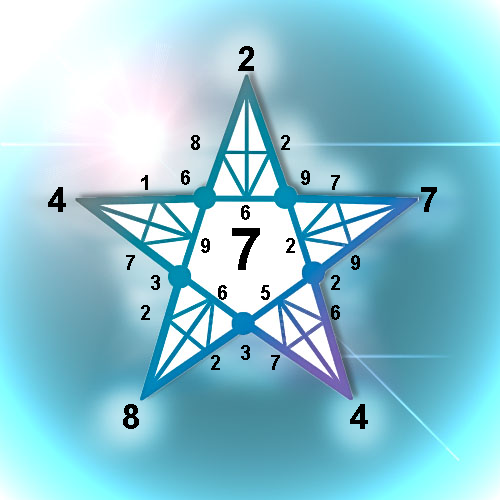
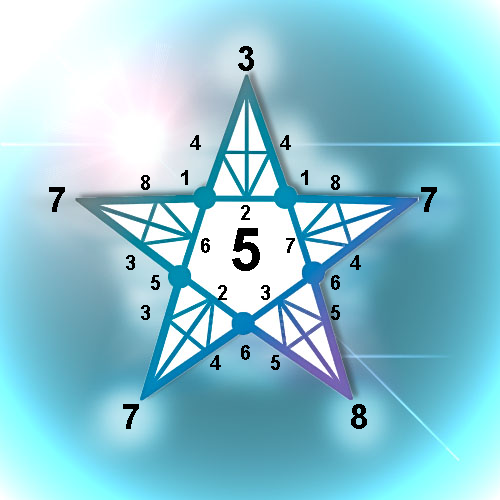
first commit

diff --git a/src/main/java/org/example/Main.java b/src/main/java/org/example/Main.java
@@ -35,14 +35,14 @@ public class Main {
 ////                }
 //
 //                System.out.println("01.03.87");
-                //    System.out.println(mes);
+                    System.out.println(mes);
 
                 try {
 
                     //   Payment.Pay(bot,mes.message().from().id());
                     if (mes.callbackQuery() != null) _callbackQuery(mes, bot);
                     if (mes.message() != null) _massege(mes, bot);
-                } catch (NullPointerException e) {
+                } catch (Exception e) {
                     e.printStackTrace();
                 }
             }
@@ -105,39 +105,38 @@ public class Main {
             bot.execute(new SendMessage(chatId, Text_puttern.date_of_birth).parseMode(ParseMode.HTML));
         } else {
 
-
             if (mes.callbackQuery().data().equals("callback_data1")) {
-                _massege_arkan(chatId,bot,22,13,11,1,92,75,71);
-                _massege_arkan(chatId,bot,9,13,11,1,92,75,71);
+                     _massege_arkan(chatId,bot,"Личность",22,13,11,1,92,75,71);
+                     _massege_arkan(chatId,bot,"Личность",9,13,11,1,92,75,71);
             }
             if (mes.callbackQuery().data().equals("callback_data2"))
                // bot.execute(new SendMessage(chatId, "Сфера духовности").parseMode(ParseMode.HTML));
             {
-                _massege_arkan(chatId, bot, 22, 11, 12, 2, 91, 72, 73);
-                _massege_arkan(chatId, bot, 9, 11, 12, 2, 91, 72, 73);
+                _massege_arkan(chatId, bot,"Духовность", 22, 11, 12, 2, 91, 72, 73);
+                _massege_arkan(chatId, bot,"Духовность", 9, 11, 12, 2, 91, 72, 73);
             }
               //   _massege_arkan(chatId,bot,10,11,12,2,91,72,73);
             if (mes.callbackQuery().data().equals("callback_data3")) {
-                _massege_arkan(chatId, bot, 22, 12, 14, 3, 93, 74, 80);
-                _massege_arkan(chatId, bot, 9, 12, 14, 3, 93, 74, 80);
+                _massege_arkan(chatId, bot,"Деньги", 22, 12, 14, 3, 93, 74, 80);
+                _massege_arkan(chatId, bot,"Деньги", 9, 12, 14, 3, 93, 74, 80);
             }
-            // _massege_arkan(chatId,bot,10,12,14,3,93,74,80);
+             //_massege_arkan(chatId,bot,10,12,14,3,93,74,80);
             if (mes.callbackQuery().data().equals("callback_data4")){
-            //  bot.execute(new SendMessage(chatId, "сфера отношений").parseMode(ParseMode.HTML));
-
-
-                _massege_arkan(chatId, bot, 22, 15, 13, 5, 94, 76, 77);
-                _massege_arkan(chatId, bot, 9, 15, 13, 5, 94, 76, 77);
+              bot.execute(new SendMessage(chatId, "сфера отношений").parseMode(ParseMode.HTML));
+                _massege_arkan(chatId, bot, "Отошения",22, 15, 13, 5, 94, 76, 77);
+                _massege_arkan(chatId, bot, "Отошения",9, 15, 13, 5, 94, 76, 77);
 
             }
             if (mes.callbackQuery().data().equals("callback_data5")) {
-                _massege_arkan(chatId,bot,22,14,15,4,95,79,78);
-                _massege_arkan(chatId,bot,9,14,15,4,95,79,78);
+                _massege_arkan(chatId,bot,"Здоровье",22,14,15,4,95,79,78);
+                _massege_arkan(chatId,bot,"Здоровье",9,14,15,4,95,79,78);
             }
              //   bot.execute(new SendMessage(chatId, "сфера здоровья").parseMode(ParseMode.HTML));
-            if (mes.callbackQuery().data().equals("callback_data6"))
+            if (mes.callbackQuery().data().equals("callback_data6")){
+                bot.execute(new SendMessage(chatId, "высшая миссия души").parseMode(ParseMode.HTML));
+            }
 
-           //     bot.execute(new SendMessage(chatId, "высшая миссия души").parseMode(ParseMode.HTML));
+
 
             if (mes.callbackQuery().data().equals("restart")) {
                 bot.execute(new SendMessage(chatId, "Напиши дату рождения в формате <u>дд.мм.гггг</u>").parseMode(ParseMode.HTML));
@@ -148,12 +147,15 @@ public class Main {
             if (mes.callbackQuery().data().equals("star")) {
                 try {
                     DrawingStar.get_star(Users.fine_user(chatId).getDate_birth(), 22);
+                 //   System.out.println("1----------");
+
                     Path imagePath = Paths.get("yourImageName.PNG");
                     byte[] c = Files.readAllBytes(imagePath);
-
+                 //   System.out.println("execute!!!!");
                     SendResponse a = bot.execute(new SendPhoto(chatId, c));
-                    // System.out.println(a);
 
+
+                     System.out.println(a);
                     DrawingStar.get_star(Users.fine_user(chatId).getDate_birth(), 9);
                     imagePath = Paths.get("yourImageName.PNG");
                     c = Files.readAllBytes(imagePath);
@@ -182,13 +184,18 @@ public class Main {
         }
     }
 
-    private static void _massege_arkan(Long chatId, TelegramBot bot, int raz,int l1, int l2, int l3, int l4, int l5, int l6 ){ // отапрвляет сообщения о предсказании
+    private synchronized static void _massege_arkan(Long chatId, TelegramBot bot,String tile, int raz,int l1, int l2, int l3, int l4, int l5, int l6 ){ // отапрвляет сообщения о предсказании
         try {
+          //  System.out.println();
+          //  System.out.println("clak_TRI");
             HashMap<Integer, Integer> nomera = Service.calck_number_(Users.fine_user(chatId).getDate_birth(), raz);
-            DrawingStar.draw_vertex(Users.fine_user(chatId).getDate_birth(), raz, nomera.get(l1),nomera.get(l2),nomera.get(l3),nomera.get(l4),nomera.get(l5),nomera.get(l6));
+         //   System.out.println("draw_TRI");
+            DrawingStar.draw_vertex(Users.fine_user(chatId).getDate_birth(),tile , raz, nomera.get(l1),nomera.get(l2),nomera.get(l3),nomera.get(l4),nomera.get(l5),nomera.get(l6));
             Path imagePath = Paths.get("yourImageName.PNG");
             byte[] c = Files.readAllBytes(imagePath);
+         //   System.out.println("STOPdraw_TRI");
             bot.execute(new SendPhoto(chatId, c).caption(Array_TEXT.getTextFromArkan(Service.LICHNOST, Array_TEXT.LICHNOST_COD)));
+         //   System.out.println("execute!!!!");
         } catch (IOException e) {
             e.printStackTrace();
         }

diff --git a/src/main/java/org/example/Service.java b/src/main/java/org/example/Service.java
@@ -40,7 +40,8 @@ public class Service {
     static public int reduce_number_to_single_digit(int in, int to) {
         if (in <= to) return in;
         int result = in;
-        while (result >= to) {
+        while (result > to) {
+        //    System.out.println(result +" > " + to);
             List<Integer> numbers = Arrays
                     .stream(String.valueOf(result).split(""))
                     .map(Integer::valueOf)
@@ -49,6 +50,8 @@ public class Service {
             result = numbers.stream().mapToInt(Integer::intValue).sum();
             // System.out.println(result);
         }
+      //  System.out.println("..." + result);
+       // System.out.println();
         //  if(result>to) reduce_number_to_single_digit(result,to);
         return result;
     }
@@ -65,23 +68,24 @@ public class Service {
         nomera.put(OTNOSHENIE, 4);
         nomera.put(ZDOROVIE, 5);
         nomera.put(MISSION_DUSHI, 6);
-
+     //   System.out.println("1");
         int lig = Service.reduce_number_to_single_digit(calendar.get(Calendar.DAY_OF_MONTH), raz);
         int duh = Service.reduce_number_to_single_digit(calendar.get(Calendar.MONTH) + 1, raz);
         int finans = Service.reduce_number_to_single_digit(calendar.get(Calendar.YEAR), raz);
-
+     //   System.out.println("2");
         int otnoh = Service.reduce_number_to_single_digit(lig + duh + finans, raz);
+     //   System.out.println("3");
         int zdor = Service.reduce_number_to_single_digit(lig + duh + finans + otnoh, raz);
         int missia_duh = Service.reduce_number_to_single_digit(lig + duh + finans + otnoh + zdor, raz);
-
+        //System.out.println("3");
         nomera.put(LICHNOST, lig);
         nomera.put(DUCHOVNOST, duh);
         nomera.put(FINANS, finans);
-
+      //  System.out.println("4");
         nomera.put(OTNOSHENIE, otnoh);
         nomera.put(ZDOROVIE, zdor);
         nomera.put(MISSION_DUSHI, missia_duh);
-
+       // System.out.println("5");
 
         nomera.put(11, Service.reduce_number_to_single_digit(lig + duh, raz));
         nomera.put(12, Service.reduce_number_to_single_digit(duh + finans, raz));
@@ -106,10 +110,10 @@ public class Service {
         nomera.put(93, Service.reduce_number_to_single_digit(nomera.get(12) + nomera.get(14), raz));
         nomera.put(94, Service.reduce_number_to_single_digit(nomera.get(13) + nomera.get(15), raz));
         nomera.put(95, Service.reduce_number_to_single_digit(nomera.get(15) + nomera.get(14), raz));
-        System.out.println("!!!!!!!!!!!");
-        for (Integer key : nomera.keySet()) {
-            System.out.println(key + "=" + nomera.get(key));
-        }
+     //   System.out.println("!!!!!!!!!!!");
+//        for (Integer key : nomera.keySet()) {
+//            System.out.println(key + "=" + nomera.get(key));
+//        }
 
 
 

diff --git a/src/main/java/org/example/DrawingStar.java b/src/main/java/org/example/DrawingStar.java
@@ -12,10 +12,15 @@ import java.util.Random;
 public class DrawingStar {
 
 
-    public static BufferedImage get_star(String birthday, int raz) throws IOException {
-
+    public synchronized static BufferedImage get_star(String birthday, int raz) throws IOException {
+  //      System.out.println();
+  //      System.out.println("calck_STAR");
         HashMap<Integer, Integer> nomera = Service.calck_number_(birthday, raz);
 
+//        for (int i = 0; i < 100; i++) {
+//                nomera.put(i,i);
+//        }
+     //   System.out.println("draw_star");
         String imagePath = "imageStar.jpg";
         BufferedImage myPicture = ImageIO.read(new File(imagePath));
         Graphics2D g2d = (Graphics2D) myPicture.getGraphics();
@@ -66,15 +71,17 @@ public class DrawingStar {
         g2d.drawString(String.valueOf(nomera.get(94)), 217, 300);
         g2d.drawString(String.valueOf(nomera.get(95)), 260, 300);
 
+     //   System.out.println("STOPdraw_star");
 
-        ImageIO.write(myPicture, "PNG", new File("yourImageName.PNG"));
+
+         ImageIO.write(myPicture, "PNG", new File("yourImageName.PNG"));
 
 
         return myPicture;
     }
 
 
-    public static BufferedImage draw_vertex(String birthday, int raz, int l1, int l2, int l3, int l4, int l5, int l6) throws IOException {
+    public static BufferedImage draw_vertex(String birthday, String tile, int raz, int l1, int l2, int l3, int l4, int l5, int l6) throws IOException {
         Service.calck_number_(birthday, raz);
 
         String imagePath = "imageVertax.jpg";
@@ -84,8 +91,10 @@ public class DrawingStar {
         g2d.setColor(Color.BLACK);
         g2d.setFont(new Font("Purisa", Font.BOLD, 18));
 
+        g2d.setFont(new Font("Purisa", Font.BOLD, 10));
+        g2d.drawString(tile, 5, 10);
 
-
+        g2d.setFont(new Font("Purisa", Font.BOLD, 18));
 
         g2d.drawString(String.valueOf(l1), 12, 170);
         g2d.drawString(String.valueOf(l2), 150, 170);

diff --git a/src/main/java/org/example/Payment.java b/src/main/java/org/example/Payment.java
@@ -35,7 +35,7 @@ public class Payment {
 //                .build());
 
 
-        System.out.println(response);
+      //  System.out.println(response);
 
     }
 
